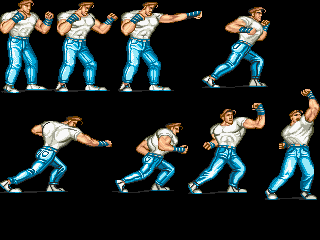
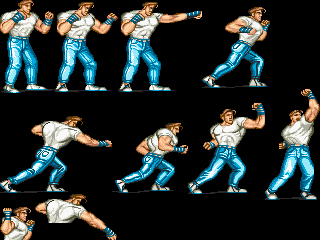
All weapons implemented

Changed region(s): [[0.0, 0.7875, 0.375, 1.0], [0.0312, 0.7875, 0.0625, 0.8167]]

diff --git a/README.md b/README.md
@@ -8,6 +8,11 @@ PS.: The current enemies on the CMM2 G1 probably will not be implemented because
 
 Changelog:
 
+2021-07-10
+- Implemented weapons control for Haggar and Cody
+- Fixed drop weapons
+- Fixed some animations on players and weapons
+
 2021-07-09
 - Implemented player weapons: katana, knife and pipe
 - Implemented weapon control for Guy
